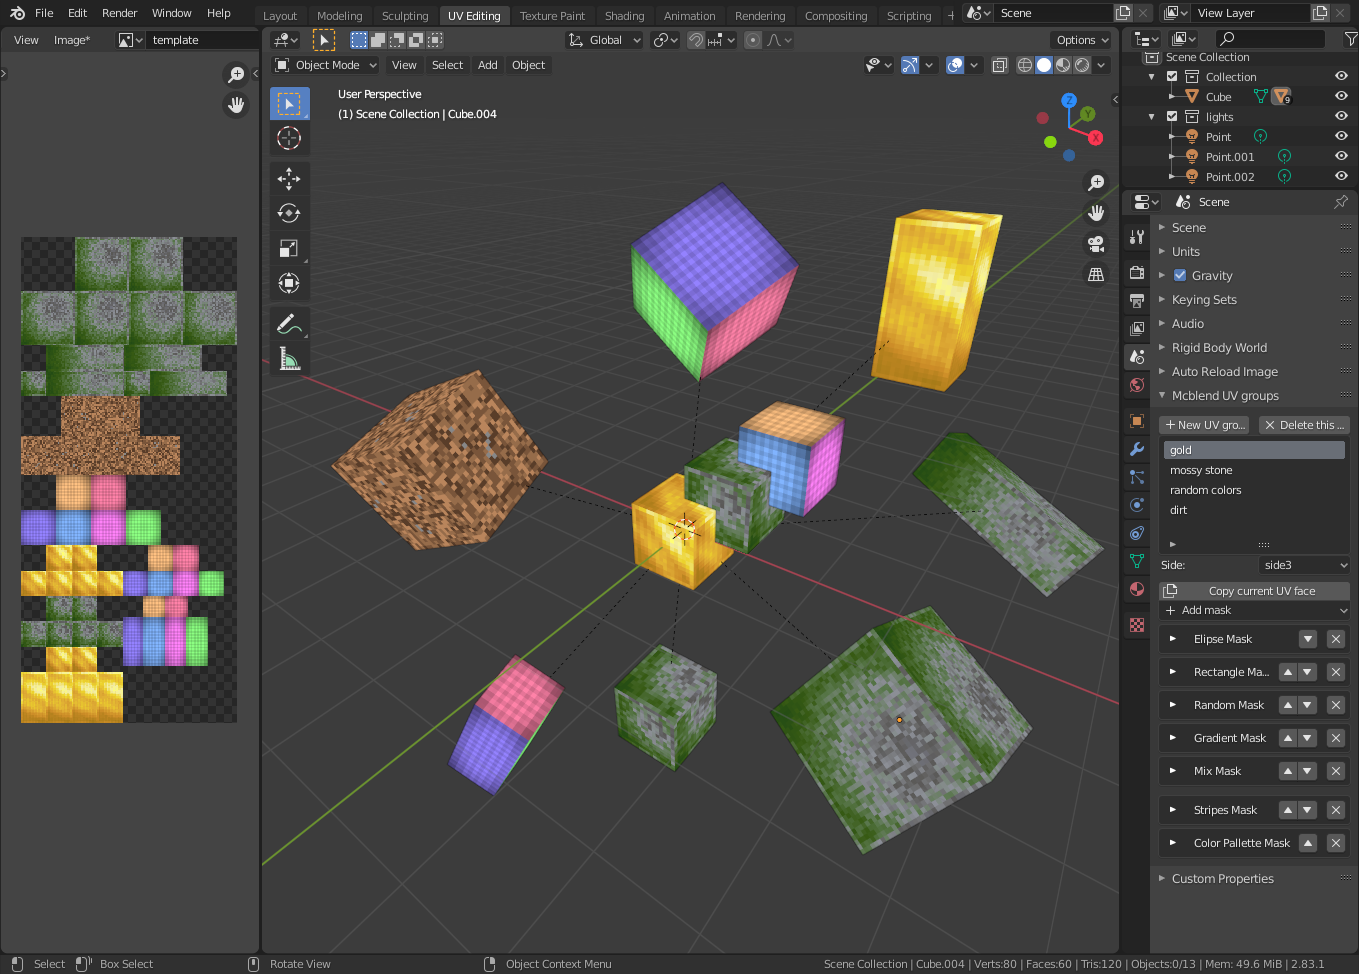
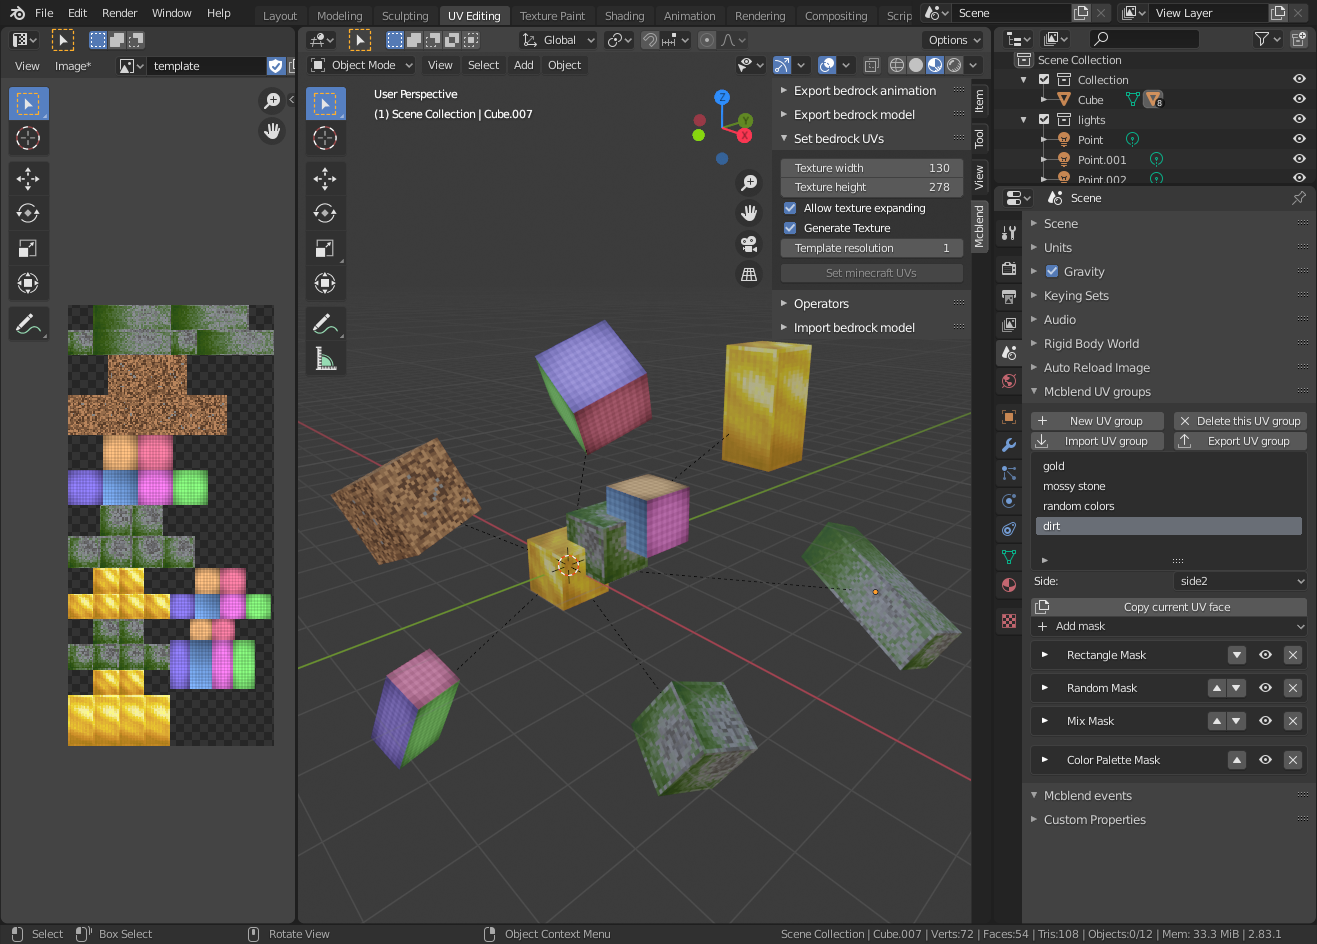
Updated UV-group user guide.

diff --git a/docs/uv_groups/index.md b/docs/uv_groups/index.md
@@ -9,14 +9,13 @@ size when the model has many identical parts.
 UV-groups also let you can change the appearance  of generated textures to your
 preference. This can be useful for setting some distinguishable look for UV-group
 members. You can create some fairly advanced textures with it, but it's usually
-better to create textures in a usual way. Future versions of Mcblend will allow
-you to export and import UV-group properties, making this feature more useful
-for texturing.
+better to create textures in a usual way.
 
 ## Creating and removing UV-groups
 UV-groups are added / removed using the "Mcblend UV groups" panel from the
 [Scene Properties](../gui_changes/#scene-properties) with "New UV group" and
-"Delete this UV group" buttons.
+"Delete this UV group" buttons. You can also export and import UV groups by
+using the "Export UV group" and "Import UV group" buttons respectively.
 
 ## Adding objects to UV-groups
 Adding object do UV-groups is done with
